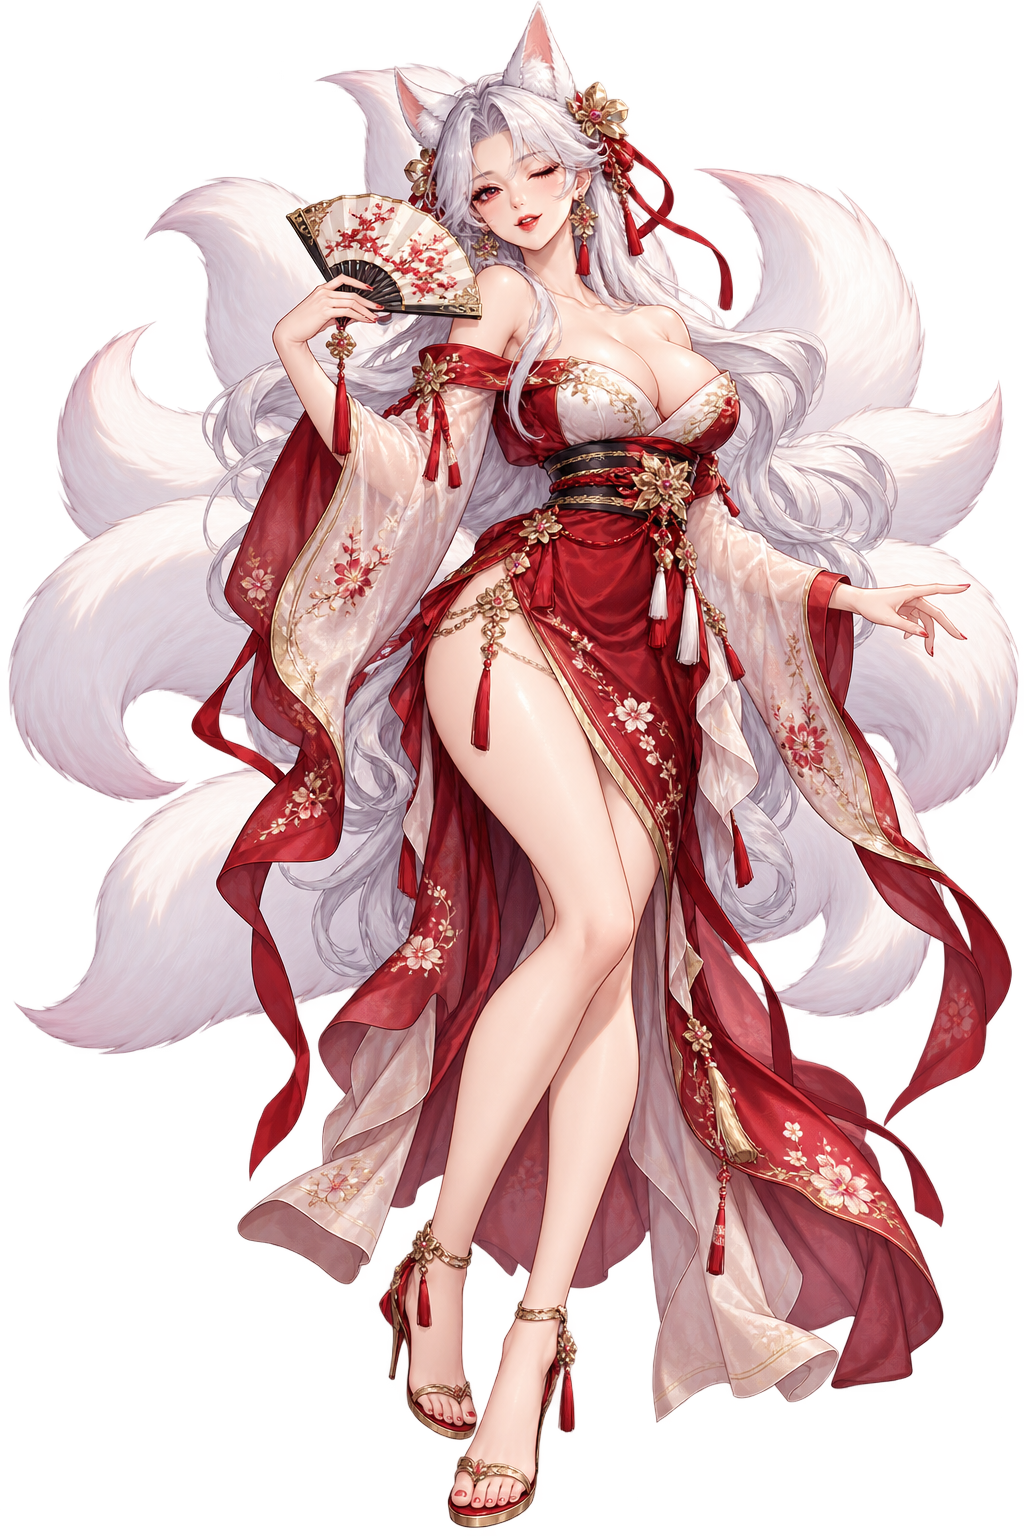
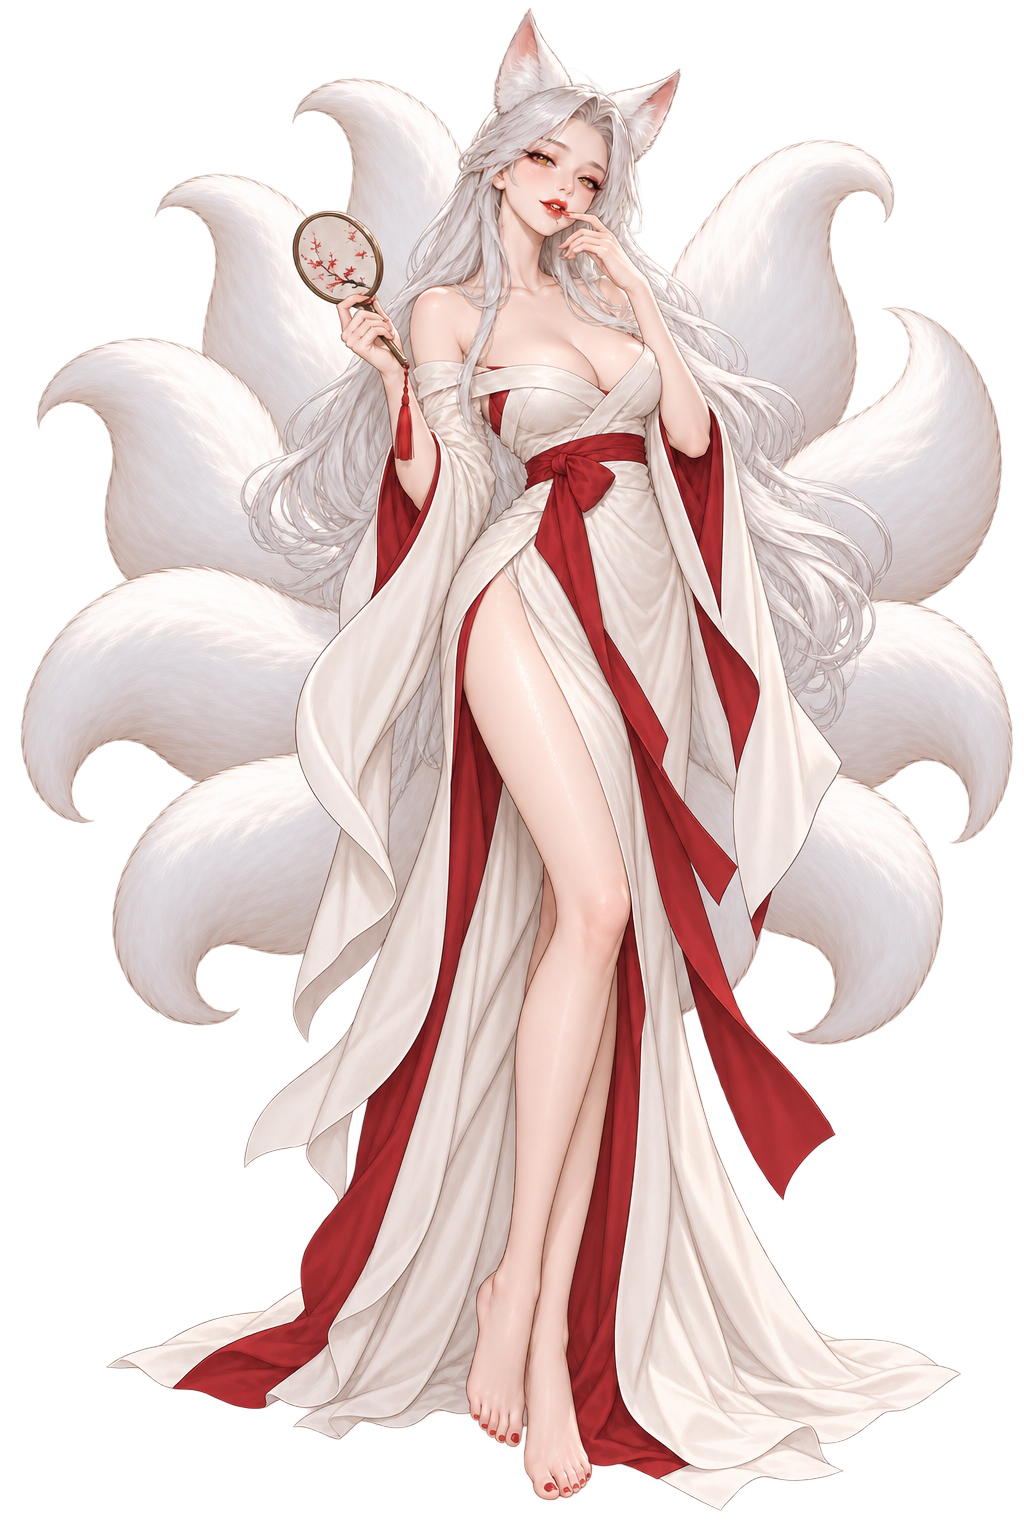
sample: 식객 체형을 한국 여자 아이돌 기준으로
- 백설·무영·소담을 마른 몸·작은 얼굴·곧고 긴 다리·적당한 가슴으로 다시 그림
- 그림 프롬프트(HEROINE)와 화풍 기준 그림에 같은 체형을 적어 앞으로 그릴 그림도 따르게 함

Claude-Session: https://claude.ai/code/session_01AG3ixGBdGKPAAzXvjh6L4F

diff --git a/src/data/art.ts b/src/data/art.ts
@@ -5,12 +5,14 @@ import { YOKAI } from './yokai';
 // 화풍이 흔들리지 않도록 STYLE은 고정하고 종류별 틀 + 대상 묘사만 바꾼다.
 
 const STYLE =
-  'Premium Korean mobile game illustration in polished Korean webtoon / modern anime style: clean confident lineart, ' +
-  'soft cel shading with rich lighting, saturated colors with gold accents. Joseon-era fantasy kingdom. No text, no letters, no watermark, no frame.';
+  'Beautiful Korean mobile game illustration in a polished modern webtoon style: clean elegant lineart, soft painterly cel shading, refined harmonious palette. ' +
+  'Simple readable designs with minimal ornament (no gold filigree, no layered jewelry, no busy embroidery, no floating petals, no sparkles). Joseon-inspired fantasy. No text, no letters, no watermark, no frame.';
 
+// 체형은 한국 여자 아이돌을 기준으로 한다(사용자 지정).
 const HEROINE =
-  'The character is clearly an adult woman, glamorous and alluring, wearing a fashionable fantasy fusion-hanbok in her own colors and motifs, ' +
-  'with a form-fitting silhouette that shows bare shoulders, collarbones and arms and a high side slit in the skirt showing her legs. ' +
+  'The character is clearly an adult woman in her mid-to-late twenties, beautiful, elegant and alluring, with a soft charming face, large expressive eyes and glossy lips. ' +
+  'Body type like a typical adult Korean pop idol: slender and graceful, small face, narrow shoulders, very slim waist, slim hips, long straight slender legs, slim toned arms, a modest natural bust, natural proportions about seven and a half heads tall. ' +
+  'She wears a simplified elegant fusion hanbok of soft flowing fabric in her own two or three colors, with bare shoulders and a high side slit showing her leg. ' +
   'Tasteful and non-explicit: no nudity, no underwear visible.';
 
 const FRAME = {
